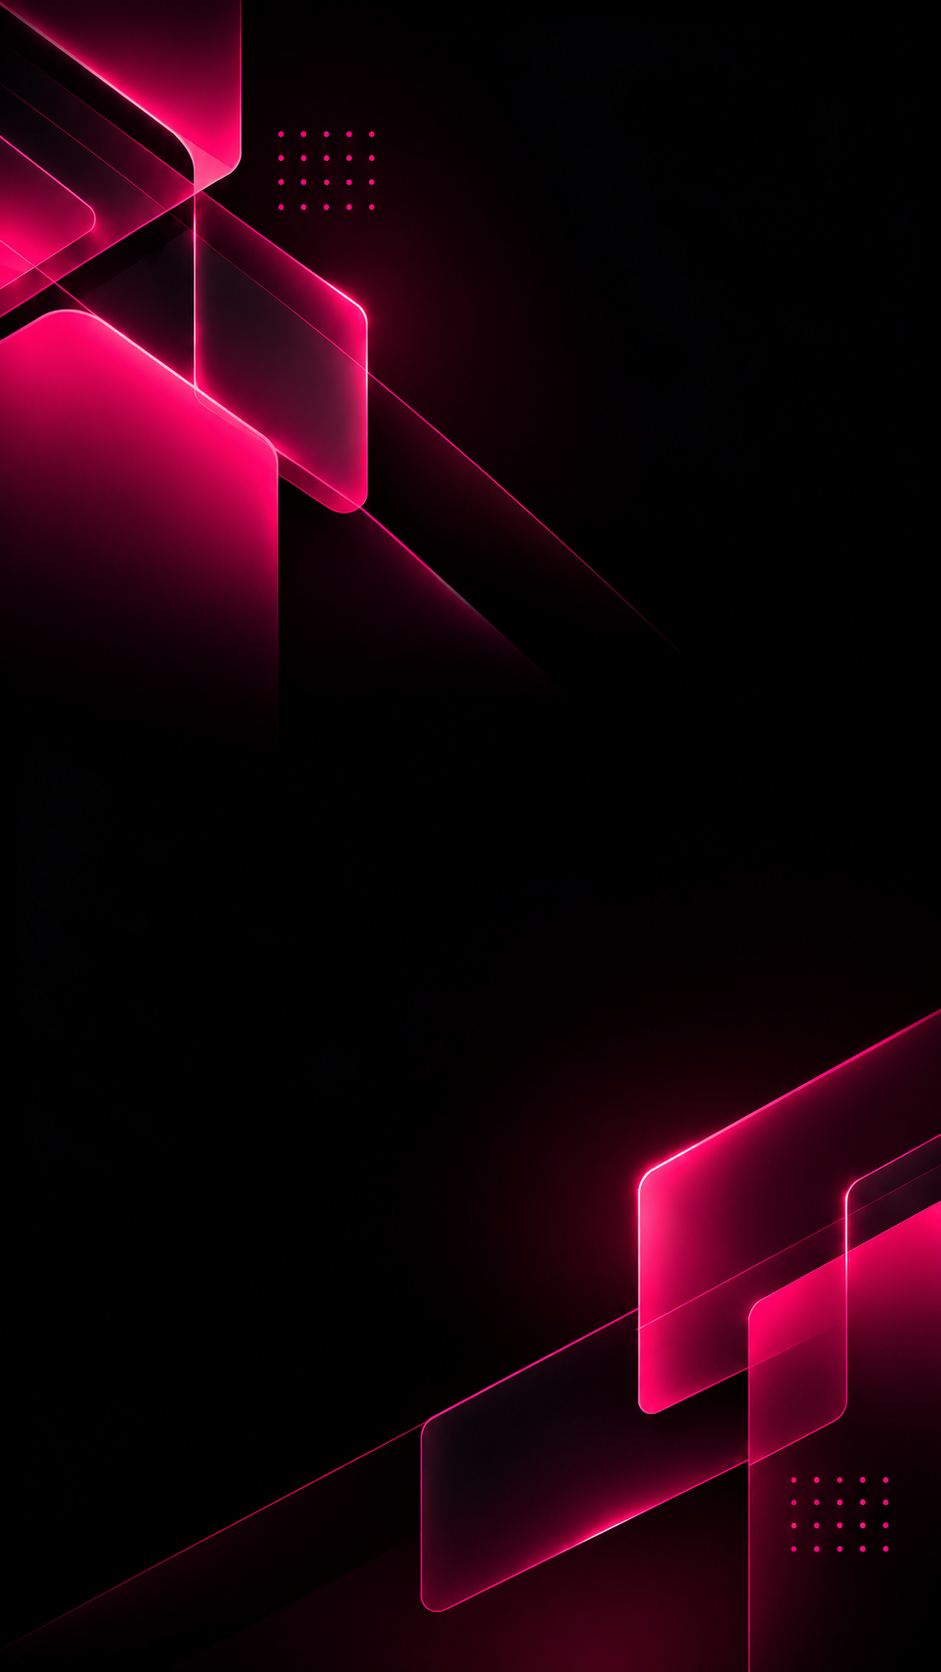
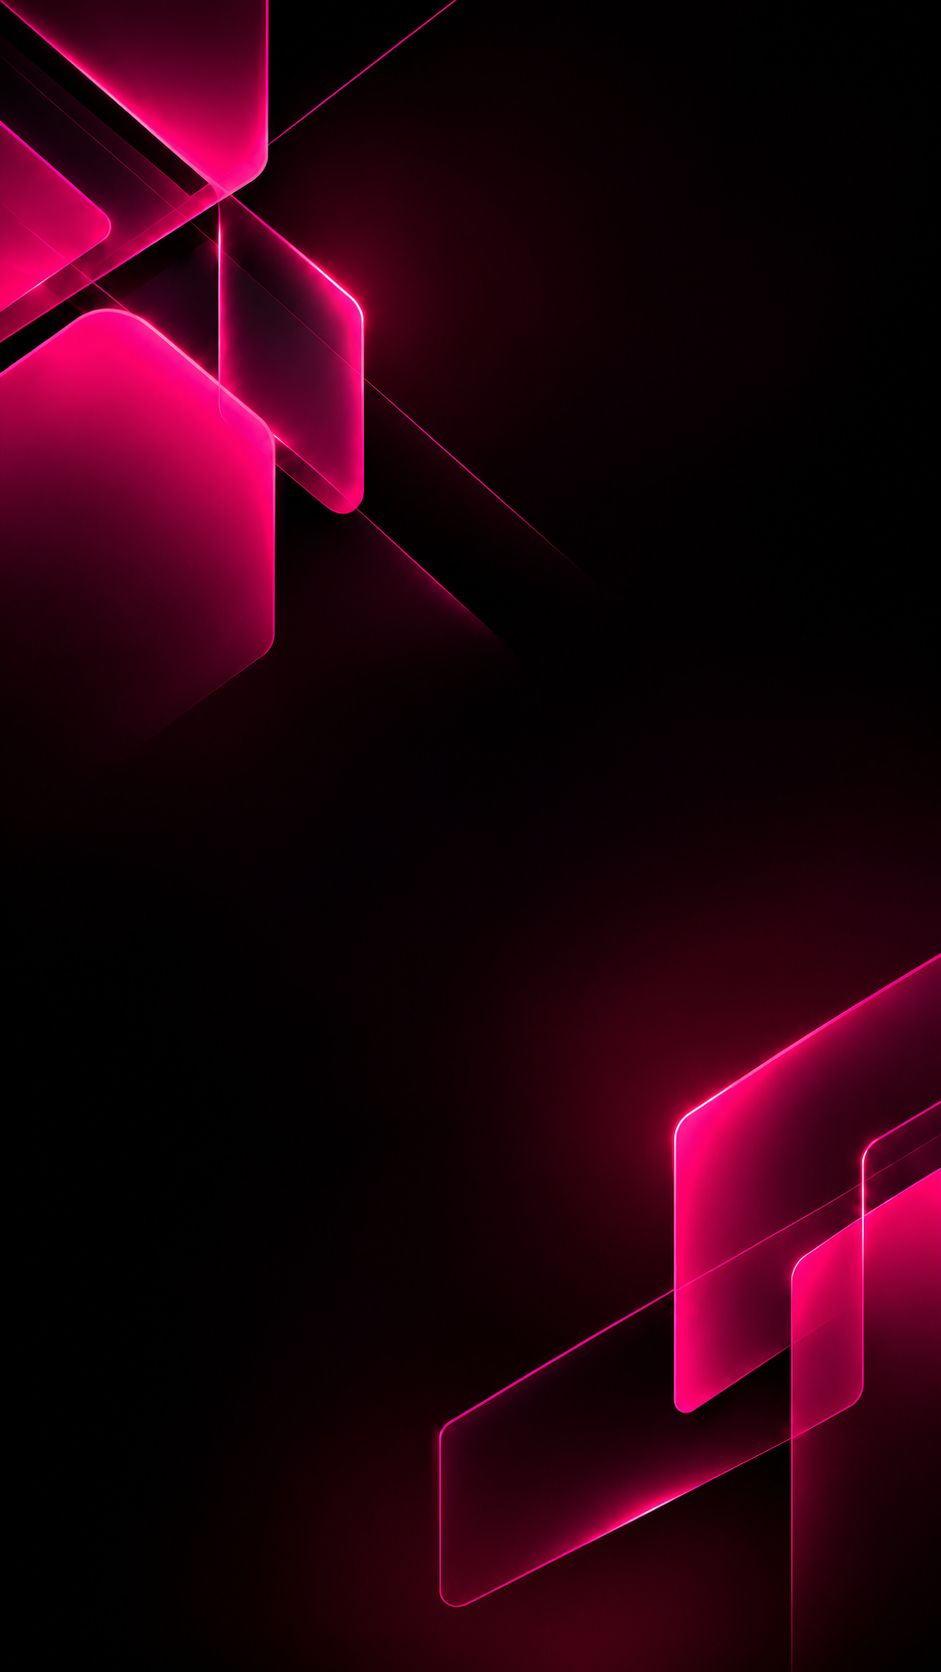
98% completed..

diff --git a/src/features/about/components/AboutDirectors.tsx b/src/features/about/components/AboutDirectors.tsx
@@ -13,16 +13,29 @@ export default function AboutDirectors() {
       className="relative z-20 w-full bg-[#020205] py-16 sm:py-20 lg:py-24 overflow-hidden text-white"
     >
       {/* ============================================================ */}
-      {/* SUBTLE BACKGROUND BLUSH ACCENTS (Deep Ambient Glows)         */}
+      {/* BACKGROUND GRAPHIC (aboutdirector-bg.png)                    */}
       {/* ============================================================ */}
-      <div className="absolute -top-24 right-0 w-[500px] lg:w-[700px] h-[500px] lg:h-[700px] bg-gradient-to-br from-[#FF0055]/[0.10] via-transparent to-transparent rounded-full blur-3xl pointer-events-none select-none z-0" />
-      <div className="absolute -bottom-24 left-10 w-[400px] lg:w-[600px] h-[400px] lg:h-[600px] bg-gradient-to-tr from-[#FF0055]/[0.08] via-transparent to-transparent rounded-full blur-3xl pointer-events-none select-none z-0" />
+      <div className="absolute inset-0 pointer-events-none select-none overflow-hidden z-0">
+        <Image
+          src="/images/about/aboutdirector-bg.png"
+          alt="Leadership Section Background"
+          fill
+          priority
+          quality={90}
+          sizes="100vw"
+          className="object-cover object-center opacity-60"
+        />
+
+        {/* Top & Bottom Section Transition Fades */}
+        <div className="absolute top-0 inset-x-0 h-20 sm:h-24 bg-gradient-to-b from-[#020205] to-transparent pointer-events-none z-[1]" />
+        <div className="absolute bottom-0 inset-x-0 h-20 sm:h-24 bg-gradient-to-t from-[#020205] to-transparent pointer-events-none z-[1]" />
+      </div>
 
       {/* ============================================================ */}
       {/* SECTION CONTENT CONTAINER                                    */}
       {/* ============================================================ */}
       <div className="max-w-[1400px] mx-auto px-6 sm:px-8 lg:px-12 relative z-10">
-        
+
         {/* ============================================================ */}
         {/* MOBILE HEADING (Visible on screens < lg, above the portrait) */}
         {/* ============================================================ */}
@@ -56,43 +69,43 @@ export default function AboutDirectors() {
         {/* ============================================================ */}
         {/* MAIN TWO-COLUMN GRID                                         */}
         {/* ============================================================ */}
-        <div className="grid grid-cols-1 lg:grid-cols-12 gap-8 sm:gap-10 lg:gap-12 xl:gap-16 items-center">
-          
+        <div className="grid grid-cols-1 lg:grid-cols-12 gap-8 sm:gap-10 lg:gap-8 xl:gap-8 items-center">
+
           {/* ============================================================ */}
           {/* LEFT COLUMN: KAELIXO LOGO EMBLEM + FOREGROUND PORTRAIT       */}
           {/* ============================================================ */}
           <motion.div
             initial={{ opacity: 0, y: 25 }}
             whileInView={{ opacity: 1, y: 0 }}
-            viewport={{ once: true, amount: 0.2 }}
+            viewport={{ once: true, amount: 0.1 }}
             transition={{ duration: 0.65, ease: [0.22, 1, 0.36, 1] }}
             className="lg:col-span-6 xl:col-span-6 w-full flex items-center justify-center lg:justify-start"
           >
-            <div className="relative w-full max-w-[360px] sm:max-w-[400px] lg:max-w-[430px] xl:max-w-[450px] mx-auto lg:mx-0 flex items-center justify-center">
-              
+            <div className="relative w-full max-w-[320px] sm:max-w-[360px] lg:max-w-[390px] xl:max-w-[400px] mx-auto lg:mx-0 flex items-center justify-center">
+
               {/* -------------------------------------------------------- */}
               {/* KAELIXO BRAND LOGO SHAPE (Behind Director Portrait)      */}
               {/* -------------------------------------------------------- */}
-              <div className="absolute top-[8%] sm:top-[6%] lg:top-[5%] left-1/2 -translate-x-1/2 w-[82%] sm:w-[86%] lg:w-[90%] aspect-square pointer-events-none select-none z-0">
+              <div className="absolute top-[8%] sm:top-[7%] lg:top-[6%] left-1/2 -translate-x-1/2 w-[76%] sm:w-[80%] lg:w-[82%] aspect-square pointer-events-none select-none z-0">
                 <Image
                   src="/images/brand/kaelixo-logo.png"
                   alt="Kaelixo Brand Emblem"
                   fill
                   priority
-                  className="object-contain drop-shadow-[0_0_45px_rgba(255,0,85,0.4)]"
+                  className="object-contain drop-shadow-[0_0_35px_rgba(255,0,85,0.35)]"
                 />
               </div>
 
               {/* -------------------------------------------------------- */}
               {/* FOREGROUND DIRECTOR PORTRAIT (Z-20, ON TOP OF SHAPE)     */}
-              {/* 100% solid body, soft blend ONLY at the very bottom cut  */}
+              {/* Smooth transparent gradient fade at bottom without black overlay */}
               {/* -------------------------------------------------------- */}
-              <div className="relative z-20 w-full h-[440px] sm:h-[490px] lg:h-[530px] xl:h-[560px] flex items-end justify-center pointer-events-none select-none">
+              <div className="relative z-20 w-full h-[390px] sm:h-[440px] lg:h-[480px] xl:h-[500px] flex items-end justify-center pointer-events-none select-none">
                 <div
                   className="relative w-full h-full flex items-end justify-center"
                   style={{
-                    maskImage: "linear-gradient(to bottom, black 90%, black 95%, transparent 100%)",
-                    WebkitMaskImage: "linear-gradient(to bottom, black 90%, black 95%, transparent 100%)",
+                    maskImage: "linear-gradient(to bottom, black 0%, black 78%, transparent 98%)",
+                    WebkitMaskImage: "linear-gradient(to bottom, black 0%, black 78%, transparent 98%)",
                   }}
                 >
                   <Image
@@ -105,9 +118,6 @@ export default function AboutDirectors() {
                     sizes="(min-width: 1024px) 50vw, 100vw"
                   />
                 </div>
-
-                {/* Subtle edge blend right at the very bottom cut */}
-                <div className="absolute inset-x-0 bottom-0 h-4 sm:h-5 bg-gradient-to-t from-[#020205] to-transparent pointer-events-none z-30" />
               </div>
             </div>
           </motion.div>
@@ -169,16 +179,16 @@ export default function AboutDirectors() {
                 target="_blank"
                 rel="noopener noreferrer"
                 aria-label="LinkedIn Profile"
-                className="group w-11 h-11 rounded-full flex items-center justify-center bg-white/[0.05] border border-white/10 shadow-[0_4px_16px_rgba(0,0,0,0.4)] hover:border-[#FF0055] hover:bg-[#FF0055] hover:shadow-[0_0_24px_rgba(255,0,85,0.5)] hover:-translate-y-0.5 transition-all duration-300"
+                className="group w-11 h-11 rounded-full flex items-center justify-center bg-[#FF0055] border border-white/30 text-white shadow-[0_4px_16px_rgba(255,0,85,0.35)] hover:bg-[#e0004b] hover:border-white/60 hover:shadow-[0_0_24px_rgba(255,0,85,0.65)] hover:scale-105 active:scale-95 transition-all duration-300 cursor-pointer"
               >
-                <FaLinkedinIn className="w-4 h-4 text-white group-hover:text-white transition-colors" />
+                <FaLinkedinIn className="w-4 h-4 text-white transition-transform duration-300 group-hover:scale-110" />
               </a>
               <a
                 href="mailto:contact@kaelixo.com"
                 aria-label="Email Director"
-                className="group w-11 h-11 rounded-full flex items-center justify-center bg-white/[0.05] border border-white/10 shadow-[0_4px_16px_rgba(0,0,0,0.4)] hover:border-[#FF0055] hover:bg-[#FF0055] hover:shadow-[0_0_24px_rgba(255,0,85,0.5)] hover:-translate-y-0.5 transition-all duration-300"
+                className="group w-11 h-11 rounded-full flex items-center justify-center bg-[#FF0055] border border-white/30 text-white shadow-[0_4px_16px_rgba(255,0,85,0.35)] hover:bg-[#e0004b] hover:border-white/60 hover:shadow-[0_0_24px_rgba(255,0,85,0.65)] hover:scale-105 active:scale-95 transition-all duration-300 cursor-pointer"
               >
-                <Mail className="w-4 h-4 text-[#FF0055] group-hover:text-white group-hover:scale-110 transition-all" />
+                <Mail className="w-4 h-4 text-white transition-transform duration-300 group-hover:scale-110" />
               </a>
             </div>
           </motion.div>

diff --git a/src/features/about/components/AboutWhoWeAre.tsx b/src/features/about/components/AboutWhoWeAre.tsx
@@ -1,6 +1,6 @@
 "use client";
 
-import React, { useRef } from "react";
+import React, { useRef, useState, useEffect } from "react";
 import Image from "next/image";
 import { motion, useInView, useScroll, useTransform } from "framer-motion";
 import { ArrowRight } from "lucide-react";
@@ -83,7 +83,19 @@ function MobileParallaxDeck() {
 
 export default function AboutWhoWeAre() {
   const sectionRef = useRef<HTMLDivElement>(null);
-  const isInView = useInView(sectionRef, { once: false, amount: 0.2 });
+  const isInView = useInView(sectionRef, { once: true, amount: 0.1 });
+  const [isMobile, setIsMobile] = useState(true);
+
+  useEffect(() => {
+    const checkMobile = () => {
+      setIsMobile(window.innerWidth < 640);
+    };
+    checkMobile();
+    window.addEventListener("resize", checkMobile);
+    return () => window.removeEventListener("resize", checkMobile);
+  }, []);
+
+  const showContent = isMobile || isInView;
 
   const handleOpenConsultation = () => {
     if (typeof window !== "undefined") {
@@ -98,7 +110,7 @@ export default function AboutWhoWeAre() {
   return (
     <section
       ref={sectionRef}
-      className="relative z-20 w-full bg-white py-20 sm:py-20 lg:py-28 overflow-x-clip"
+      className="relative z-20 w-full bg-white pt-10 sm:pt-20 pb-16 sm:pb-20 lg:py-28 overflow-x-clip"
     >
       <div className="max-w-[1400px] mx-auto px-6 sm:px-8 lg:px-12 relative">
         <div className="grid grid-cols-1 lg:grid-cols-12 gap-12 lg:gap-12 xl:gap-16 items-center">
@@ -108,8 +120,8 @@ export default function AboutWhoWeAre() {
           <div className="lg:col-span-6 xl:col-span-6 flex flex-col justify-center">
             {/* Eyebrow: WHO WE ARE + Pink Accent Dash */}
             <motion.div
-              initial={{ opacity: 0, y: 20 }}
-              animate={isInView ? { opacity: 1, y: 0 } : { opacity: 0, y: 20 }}
+              initial={isMobile ? false : { opacity: 0, y: 20 }}
+              animate={showContent ? { opacity: 1, y: 0 } : { opacity: 0, y: 20 }}
               transition={{ duration: 0.6, ease: [0.16, 1, 0.3, 1] }}
               className="flex items-center gap-3 mb-4 sm:mb-5"
             >
@@ -121,8 +133,8 @@ export default function AboutWhoWeAre() {
 
             {/* Headline */}
             <motion.h2
-              initial={{ opacity: 0, y: 25 }}
-              animate={isInView ? { opacity: 1, y: 0 } : { opacity: 0, y: 25 }}
+              initial={isMobile ? false : { opacity: 0, y: 25 }}
+              animate={showContent ? { opacity: 1, y: 0 } : { opacity: 0, y: 25 }}
               transition={{ duration: 0.7, delay: 0.1, ease: [0.16, 1, 0.3, 1] }}
               className="text-[28px] sm:text-[28px] md:text-[36px] lg:text-[36px] xl:text-[42px] 2xl:text-[42px] font-black text-[#0A1024] leading-[1.12] tracking-tight font-heading"
             >
@@ -135,8 +147,8 @@ export default function AboutWhoWeAre() {
 
             {/* Description Text */}
             <motion.p
-              initial={{ opacity: 0, y: 20 }}
-              animate={isInView ? { opacity: 1, y: 0 } : { opacity: 0, y: 20 }}
+              initial={isMobile ? false : { opacity: 0, y: 20 }}
+              animate={showContent ? { opacity: 1, y: 0 } : { opacity: 0, y: 20 }}
               transition={{ duration: 0.7, delay: 0.2, ease: [0.16, 1, 0.3, 1] }}
               className="mt-5 sm:mt-6 text-[15px] sm:text-[15px] md:text-[15px] lg:text-[16px] xl:text-[16px] 2xl:text-[16px] leading-relaxed text-gray-600 max-w-[540px]"
             >
@@ -145,8 +157,8 @@ export default function AboutWhoWeAre() {
 
             {/* CTA Button: Discover More */}
             <motion.div
-              initial={{ opacity: 0, y: 20 }}
-              animate={isInView ? { opacity: 1, y: 0 } : { opacity: 0, y: 20 }}
+              initial={isMobile ? false : { opacity: 0, y: 20 }}
+              animate={showContent ? { opacity: 1, y: 0 } : { opacity: 0, y: 20 }}
               transition={{ duration: 0.7, delay: 0.3, ease: [0.16, 1, 0.3, 1] }}
               className="mt-8 sm:mt-9 flex items-center gap-4"
             >

diff --git a/src/features/about/components/AboutHero.tsx b/src/features/about/components/AboutHero.tsx
@@ -7,8 +7,8 @@ import { motion } from "framer-motion";
 export default function AboutHero() {
   return (
     <section 
-      className="sticky top-[96px] z-0 w-full flex items-center justify-center overflow-hidden
-        h-[290px] sm:h-[300px] md:h-[320px] lg:h-[350px] xl:h-[450px] 2xl:h-[480px] [@media(min-width:1920px)]:h-[500px]"
+      className="sticky top-0 sm:top-[96px] -mt-[96px] sm:mt-0 pt-[96px] sm:pt-0 z-0 w-full flex items-center justify-center overflow-hidden
+        h-[380px] sm:h-[300px] md:h-[320px] lg:h-[350px] xl:h-[450px] 2xl:h-[480px] [@media(min-width:1920px)]:h-[500px]"
       style={{
         transform: 'translate3d(0, 0, 0)',
         WebkitTransform: 'translate3d(0, 0, 0)',
@@ -19,22 +19,37 @@ export default function AboutHero() {
     >
       {/* Background Elements */}
       <div className="absolute inset-0 pointer-events-none select-none overflow-hidden z-0 bg-[#020205]">
-        {/* Desktop & Tablet Background Image */}
-        <Image
-          src="/images/about/aboutherobg.png"
-          alt="Kaelixo About Hero Background"
-          fill
-          priority
-          quality={95}
-          sizes="100vw"
-          className="object-cover object-center opacity-85"
-        />
+        {/* Mobile Background Image (< sm) */}
+        <div className="block sm:hidden absolute inset-0">
+          <Image
+            src="/images/about/aboutheromobilebg.png"
+            alt="Kaelixo About Hero Mobile Background"
+            fill
+            priority
+            quality={95}
+            sizes="100vw"
+            className="object-cover object-top opacity-70"
+          />
+        </div>
 
-        {/* Subtle Top Header Transition Fade */}
-        <div className="absolute top-0 inset-x-0 h-16 sm:h-20 bg-gradient-to-b from-[#020205]/80 via-[#020205]/20 to-transparent pointer-events-none z-[1]" />
+        {/* Desktop & Tablet Background Image (>= sm) */}
+        <div className="hidden sm:block absolute inset-0">
+          <Image
+            src="/images/about/aboutherobg.png"
+            alt="Kaelixo About Hero Background"
+            fill
+            priority
+            quality={95}
+            sizes="100vw"
+            className="object-cover object-center opacity-85"
+          />
+        </div>
+
+        {/* Top Header Transition Fade (Dark near header) */}
+        <div className="absolute top-0 inset-x-0 h-28 sm:h-24 bg-gradient-to-b from-[#020205] via-[#020205]/75 to-transparent pointer-events-none z-[1]" />
 
         {/* Subtle Bottom Transition Blend */}
-        <div className="absolute inset-x-0 bottom-0 h-12 sm:h-16 bg-gradient-to-t from-[#020205] via-[#020205]/40 to-transparent pointer-events-none z-[1]" />
+        <div className="absolute inset-x-0 bottom-0 h-8 sm:h-16 bg-gradient-to-t from-[#020205]/70 via-transparent to-transparent pointer-events-none z-[1]" />
       </div>
 
       {/* ============================================================ */}

diff --git a/src/features/about/components/AboutStats.tsx b/src/features/about/components/AboutStats.tsx
@@ -111,13 +111,12 @@ export default function AboutStats() {
           {statsData.map((stat, idx) => (
             <div
               key={stat.id}
-              className={`flex items-center gap-2 sm:gap-2.5 md:gap-3 lg:gap-2.5 xl:gap-3.5 2xl:gap-4 justify-start ${
-                idx === 0
+              className={`flex items-center gap-2 sm:gap-2.5 md:gap-3 lg:gap-2.5 xl:gap-3.5 2xl:gap-4 justify-start ${idx === 0
                   ? "lg:pl-0 lg:pr-2.5 xl:pr-6 2xl:pr-8"
                   : idx === statsData.length - 1
-                  ? "lg:pl-2.5 xl:pl-6 2xl:pl-8 lg:pr-0"
-                  : "lg:px-2.5 xl:px-6 2xl:px-8"
-              }`}
+                    ? "lg:pl-2.5 xl:pl-6 2xl:pl-8 lg:pr-0"
+                    : "lg:px-2.5 xl:px-6 2xl:px-8"
+                }`}
             >
               {/* Circular Icon with vibrant Kaelixo Pink Gradient & soft halo */}
               <div className="relative group shrink-0">
